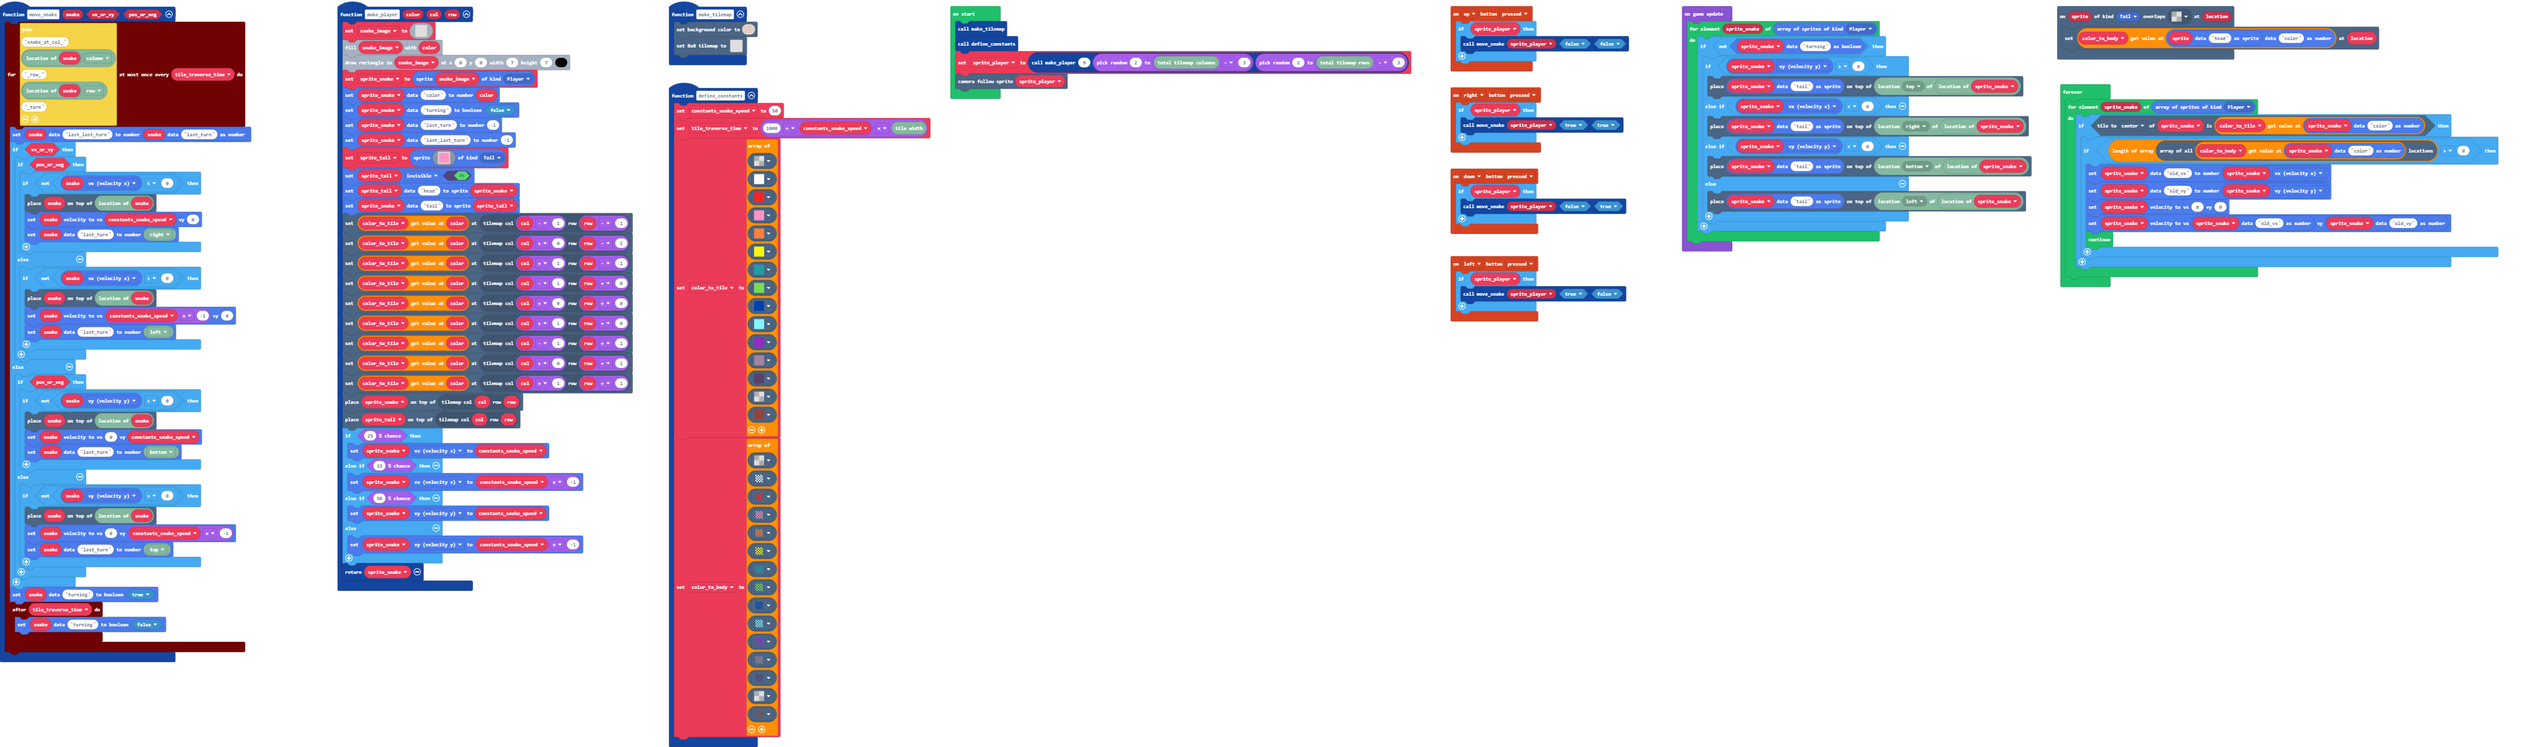
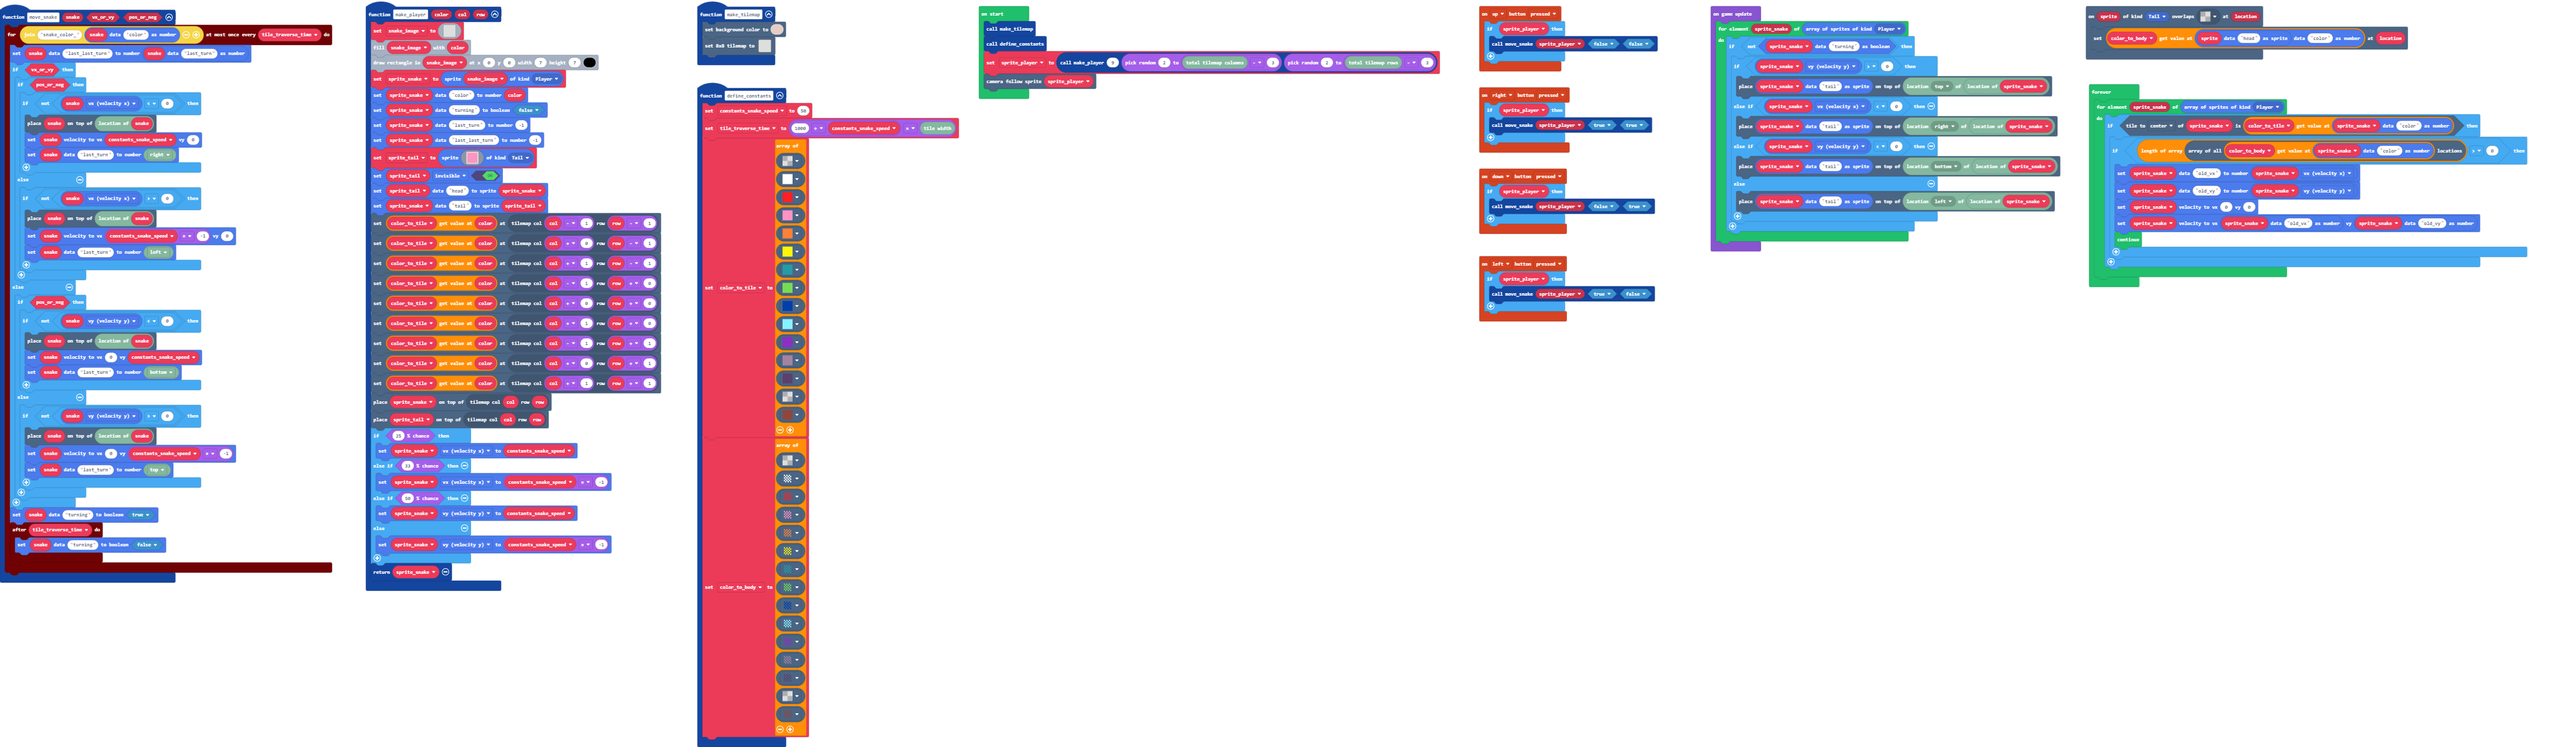
Properly rate limit direction changes

diff --git a/main.ts b/main.ts
@@ -48,7 +48,7 @@ scene.onOverlapTile(SpriteKind.Tail, assets.tile`transparency8`, function (sprit
     tiles.setTileAt(location, color_to_body[sprites.readDataNumber(sprites.readDataSprite(sprite, "head"), "color")])
 })
 function move_snake (snake: Sprite, vx_or_vy: boolean, pos_or_neg: boolean) {
-    timer.throttle("snake_at_col_" + tiles.locationXY(tiles.locationOfSprite(snake), tiles.XY.column) + "_row_" + tiles.locationXY(tiles.locationOfSprite(snake), tiles.XY.row) + "_turn", tile_traverse_time, function () {
+    timer.throttle("snake_color_" + sprites.readDataNumber(snake, "color"), tile_traverse_time, function () {
         sprites.setDataNumber(snake, "last_last_turn", sprites.readDataNumber(snake, "last_turn"))
         if (vx_or_vy) {
             if (pos_or_neg) {
